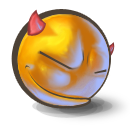
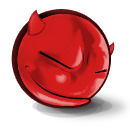
implemented chat smileys

diff --git a/Bros/Content/Styles/chat.css b/Bros/Content/Styles/chat.css
@@ -1,109 +1,115 @@
-     body {
-         background: #171717;
-     }
+body {
+	background: #171717;
+}
 
-     #friend-list {
-         position: fixed;
-         right: 30px;
-         top: 150px;
-         width: 200px;
-         min-height: 400px;
-         background: #eee;
-         border: 1px solid #999;
-         padding-left: 0;
-         cursor: pointer;
-         margin: 0;
-     }
+#friend-list {
+	position: fixed;
+	right: 30px;
+	top: 150px;
+	width: 200px;
+	min-height: 400px;
+	background: #eee;
+	border: 1px solid #999;
+	padding-left: 0;
+	cursor: pointer;
+	margin: 0;
+}
 
-     #friend-list li {
-         list-style-type: none;
-         padding: 5px 10px;
-         border-bottom: 1px solid #777;
-     }
+#friend-list li {
+	list-style-type: none;
+	padding: 5px 10px;
+	border-bottom: 1px solid #777;
+}
 
-     .offline {
-         background: #ccc;
-     }
+.offline {
+	background: #ccc;
+}
 
-     .online {
-         background: #b6ff00;
-     }
+.online {
+	background: #b6ff00;
+}
 
-     #templateForm {
-         display: none;
-     }
+#templateForm {
+	display: none;
+}
 
-     .chat-window {
-         width: 400px;
-         border: 1px solid #666;
-         margin-top: 2em;
-         background: #fff;
-         position: absolute;
-     }
+.chat-window {
+	width: 400px;
+	border: 1px solid #666;
+	margin-top: 2em;
+	background: #fff;
+	position: absolute;
+}
 
-     .msgWrap {
-         overflow-y: scroll;
-         overflow-x: hidden;
-         height: 150px;
-     }
+.msgWrap {
+	overflow-y: scroll;
+	overflow-x: hidden;
+	height: 150px;
+}
 
-     .messages {
-         padding-left: 10px;
-         font-family: sans-serif;
-         margin: 0;
-     }
+.chat-window .messages {
+	padding-left: 10px;
+	font-family: sans-serif;
+	margin: 0;
+}
 
-     .messages p {
-         margin: 10px 0;
-         font-size: 14px;
-     }
+.messages p {
+	margin: 10px 0;
+	font-size: 14px;
+}
 
-     .messageBoxWrapper {
-         padding: 10px;
-         border-top: 1px solid #aaa;
-     }
+.messageBoxWrapper {
+	padding: 10px;
+	border-top: 1px solid #aaa;
+}
 
-     .messageBox {
-         width: 100%;
-         margin: 0;
-         border: none;
-         outline: 0;
-     }
+.messageBox {
+	width: 100%;
+	margin: 0;
+	border: none;
+	outline: 0;
+}
 
-     .header {
-         background: #666;
-         color: #fff;
-         font-weight: bold;
-         margin: 0;
-         padding: 10px;
-         font-family: sans-serif;
-         cursor: move;
-     }
+.chat-window .header {
+	background: #666;
+	color: #fff;
+	font-weight: bold;
+	margin: 0;
+	padding: 10px;
+	font-family: sans-serif;
+	cursor: move;
+}
 
-     .me {
-         color: green;
-     }
+.chat-window .me {
+	color: green;
+}
 
-    .messages > p {
-        color: black;
-    }
+.chat-window .messages > p {
+	color: black;
+}
 
-     .close {
-         color: #fff;
-         width: 20px;
-         height: 20px;
-         position: absolute;
-         top: 0px;
-         right: 0px;
-         font-size: 20px;
-         font-family: cursive;
-         cursor: pointer;
-     }
+.chat-window .close {
+	color: #fff;
+	width: 20px;
+	height: 20px;
+	position: absolute;
+	top: 0px;
+	right: 0px;
+	font-size: 20px;
+	font-family: cursive;
+	cursor: pointer;
+}
 
-     .close:after {
-         content: "x";
-     }
+.chat-window .close:after {
+	content: "x";
+}
 
-     .them {
-         color: blue;
-     }
+.chat-window .them {
+	color: blue;
+}
+
+.chat-window .smiley {
+	max-width: 32px;
+	margin-bottom: -10px;
+	margin-left: 3px;
+}
